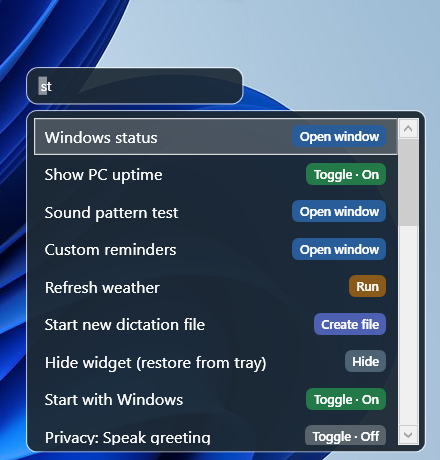
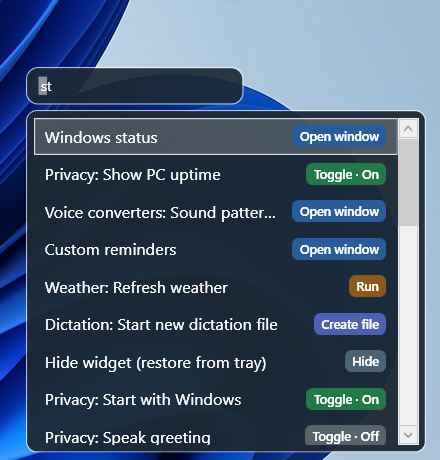
Group the right-click menu into submenus
Display and startup toggles (PC uptime, internet connection, Bluetooth and
headphones, Always on top, Start with Windows) move under Privacy; Refresh
weather moves under Weather; the dictation actions get a Dictation submenu
and the five voice tools a Voice converters submenu. Search labels now start
with the same submenu name, and the README and its screenshots follow.

diff --git a/src/Views/MainWindow.xaml.cs b/src/Views/MainWindow.xaml.cs
@@ -737,25 +737,25 @@ public partial class MainWindow : Window
         var actions = new List<WidgetSearchAction>
         {
             new("Windows status", "storage connection drive disk network wifi cpu processor memory ram process battery power display monitor gpu graphics uptime security antivirus firewall update dashboard", WidgetSearchActionKind.OpenWindow, ShowWindowsStatus),
-            new("Show PC uptime", "uptime boot started restart running time since", WidgetSearchActionKind.Toggle, ToggleShowUptime, () => _settings.ShowUptime),
-            new("Show internet connection", "network wifi wi-fi ethernet wired cellular mobile 5g 4g lte offline metered public private signal bars", WidgetSearchActionKind.Toggle, ToggleShowNetwork, () => _settings.ShowNetwork),
-            new("Show Bluetooth and headphones", "bluetooth headphones headset earbuds earphones audio devices connected", WidgetSearchActionKind.Toggle, ToggleShowDevices, () => _settings.ShowDevices),
+            new("Privacy: Show PC uptime", "uptime boot started restart running time since", WidgetSearchActionKind.Toggle, ToggleShowUptime, () => _settings.ShowUptime),
+            new("Privacy: Show internet connection", "network wifi wi-fi ethernet wired cellular mobile 5g 4g lte offline metered public private signal bars", WidgetSearchActionKind.Toggle, ToggleShowNetwork, () => _settings.ShowNetwork),
+            new("Privacy: Show Bluetooth and headphones", "bluetooth headphones headset earbuds earphones audio devices connected", WidgetSearchActionKind.Toggle, ToggleShowDevices, () => _settings.ShowDevices),
             new("File summary and search", "files folder documents dashboard find text word phrase grep size count docx", WidgetSearchActionKind.OpenWindow, ShowFileInsights),
             new("Scientific calculator", "math arithmetic trig sin cos log square root", WidgetSearchActionKind.OpenWindow, ShowScientificCalculator),
-            new("Sound pattern test", "voice signal microphone cloclo accessibility", WidgetSearchActionKind.OpenWindow, ShowSoundPatternTest),
-            new("Voice signals", "waveform david hoda microphone record compare accessibility", WidgetSearchActionKind.OpenWindow, ShowVoiceSignals),
-            new("Find it in David's words", "david match word microphone record recognise accessibility", WidgetSearchActionKind.OpenWindow, ShowDavidMatch),
-            new("Voice converter", "david convert my voice microphone record compare accessibility", WidgetSearchActionKind.OpenWindow, ShowVoiceConverter),
-            new("Letter signals", "letters formant table build word david compare signal", WidgetSearchActionKind.OpenWindow, ShowLetterSignals),
+            new("Voice converters: Sound pattern test", "voice signal microphone cloclo accessibility", WidgetSearchActionKind.OpenWindow, ShowSoundPatternTest),
+            new("Voice converters: Voice signals", "waveform david hoda microphone record compare accessibility", WidgetSearchActionKind.OpenWindow, ShowVoiceSignals),
+            new("Voice converters: Find it in David's words", "david match word microphone record recognise accessibility", WidgetSearchActionKind.OpenWindow, ShowDavidMatch),
+            new("Voice converters: Voice converter", "david convert my voice microphone record compare accessibility", WidgetSearchActionKind.OpenWindow, ShowVoiceConverter),
+            new("Voice converters: Letter signals", "letters formant table build word david compare signal", WidgetSearchActionKind.OpenWindow, ShowLetterSignals),
             new("Custom reminders", "reminder remainder schedule message", WidgetSearchActionKind.OpenWindow, OpenCustomReminders),
             new("Prayer times and azan", "salah fajr dhuhr asr maghrib isha adhan", WidgetSearchActionKind.OpenWindow, OpenPrayerTimes),
-            new("Open dictation folder", "dictation files recordings", WidgetSearchActionKind.OpenFolder, OpenDictationFolder),
+            new("Dictation: Open dictation folder", "dictation files recordings", WidgetSearchActionKind.OpenFolder, OpenDictationFolder),
             new("Set location", "city place weather gps", WidgetSearchActionKind.OpenWindow, OpenLocationDialog),
-            new("Refresh weather", "forecast update", WidgetSearchActionKind.Run, () => _ = RefreshWeatherAsync()),
-            new("Start new dictation file", "dictate speech recording", WidgetSearchActionKind.CreateFile, StartNewDictationFile),
+            new("Weather: Refresh weather", "forecast update", WidgetSearchActionKind.Run, () => _ = RefreshWeatherAsync()),
+            new("Dictation: Start new dictation file", "dictate speech recording", WidgetSearchActionKind.CreateFile, StartNewDictationFile),
             new("Hide widget (restore from tray)", "visibility tray hide", WidgetSearchActionKind.Hide, ToggleVisible),
-            new("Always on top", "toggle floating", WidgetSearchActionKind.Toggle, ToggleAlwaysOnTop, () => _settings.AlwaysOnTop),
-            new("Start with Windows", "startup login toggle", WidgetSearchActionKind.Toggle, ToggleStartWithWindows, () => StartupRegistration.IsEnabled()),
+            new("Privacy: Always on top", "toggle floating", WidgetSearchActionKind.Toggle, ToggleAlwaysOnTop, () => _settings.AlwaysOnTop),
+            new("Privacy: Start with Windows", "startup login toggle", WidgetSearchActionKind.Toggle, ToggleStartWithWindows, () => StartupRegistration.IsEnabled()),
             new("Privacy: Hide from screen sharing", "capture screenshots toggle", WidgetSearchActionKind.Toggle, ToggleHideFromScreenCapture, () => _settings.HideFromScreenCapture),
             new("Privacy: Show notification text", "notifications privacy toggle", WidgetSearchActionKind.Toggle, ToggleNotificationText, () => _settings.ShowNotificationText),
             new("Privacy: Speak greeting", "account name startup voice toggle", WidgetSearchActionKind.Toggle, ToggleSpeakGreeting, () => _settings.SpeakGreeting),
@@ -2361,22 +2361,22 @@ public partial class MainWindow : Window
         menu.Items.Add(Item("Custom reminders…", OpenCustomReminders));
         menu.Items.Add(Item("Prayer times and azan…", OpenPrayerTimes));
         menu.Items.Add(Item("Windows status…", ShowWindowsStatus));
-        menu.Items.Add(Item("Show PC uptime", ToggleShowUptime, isChecked: _settings.ShowUptime));
-        menu.Items.Add(Item("Show internet connection", ToggleShowNetwork, isChecked: _settings.ShowNetwork));
-        menu.Items.Add(Item("Show Bluetooth and headphones", ToggleShowDevices, isChecked: _settings.ShowDevices));
         menu.Items.Add(Item("File summary and search…", ShowFileInsights));
         menu.Items.Add(Item("Scientific calculator…", ShowScientificCalculator));
-        menu.Items.Add(Item("Sound pattern test…", ShowSoundPatternTest));
-        menu.Items.Add(Item("Voice signals…", ShowVoiceSignals));
-        menu.Items.Add(Item("Find it in David's words…", ShowDavidMatch));
-        menu.Items.Add(Item("Voice converter…", ShowVoiceConverter));
-        menu.Items.Add(Item("Letter signals…", ShowLetterSignals));
-        menu.Items.Add(Item("Refresh weather", () => _ = RefreshWeatherAsync()));
-        menu.Items.Add(Item("Start new dictation file", StartNewDictationFile));
-        menu.Items.Add(Item("Open dictation folder", OpenDictationFolder));
+        menu.Items.Add(SubMenu("Voice converters", new object[]
+        {
+            Item("Sound pattern test…", ShowSoundPatternTest),
+            Item("Voice signals…", ShowVoiceSignals),
+            Item("Find it in David's words…", ShowDavidMatch),
+            Item("Voice converter…", ShowVoiceConverter),
+            Item("Letter signals…", ShowLetterSignals),
+        }));
+        menu.Items.Add(SubMenu("Dictation", new object[]
+        {
+            Item("Start new dictation file", StartNewDictationFile),
+            Item("Open dictation folder", OpenDictationFolder),
+        }));
         menu.Items.Add(BuildPrivacyMenu());
-        menu.Items.Add(Item("Always on top", ToggleAlwaysOnTop, isChecked: _settings.AlwaysOnTop));
-        menu.Items.Add(Item("Start with Windows", ToggleStartWithWindows, isChecked: StartupRegistration.IsEnabled()));
         menu.Items.Add(new Separator());
         menu.Items.Add(Item("Exit", () => System.Windows.Application.Current.Shutdown()));
         return menu;
@@ -2415,7 +2415,9 @@ public partial class MainWindow : Window
     }
 
     private MenuItem BuildSkyMenu() =>
-        SubMenu("Weather", SkyOptions.Select(opt => Item(opt.Label, () => SetSky(opt.Value), isChecked: _settings.Sky == opt.Value)));
+        SubMenu("Weather", SkyOptions.Select(opt => (object)Item(opt.Label, () => SetSky(opt.Value), isChecked: _settings.Sky == opt.Value))
+            .Append(new Separator())
+            .Append(Item("Refresh weather", () => _ = RefreshWeatherAsync())));
 
     private static readonly (string Value, string Label)[] MotionOptions =
     {
@@ -2706,6 +2708,12 @@ public partial class MainWindow : Window
             Item("Speak greeting and account name on startup", ToggleSpeakGreeting, isChecked: _settings.SpeakGreeting),
             Item("Hold right-click to talk", TogglePushToTalk, isChecked: _settings.PushToTalkEnabled),
             Item("Voice commands in Arabic", ToggleVoiceCommandsInArabic, isChecked: _settings.VoiceCommandsInArabic),
+            new Separator(),
+            Item("Show PC uptime", ToggleShowUptime, isChecked: _settings.ShowUptime),
+            Item("Show internet connection", ToggleShowNetwork, isChecked: _settings.ShowNetwork),
+            Item("Show Bluetooth and headphones", ToggleShowDevices, isChecked: _settings.ShowDevices),
+            Item("Always on top", ToggleAlwaysOnTop, isChecked: _settings.AlwaysOnTop),
+            Item("Start with Windows", ToggleStartWithWindows, isChecked: StartupRegistration.IsEnabled()),
         });
 
     private void ToggleHideFromScreenCapture()

diff --git a/README.md b/README.md
@@ -155,7 +155,7 @@ two decimal places.
   e.g. "Wi-Fi, 3 of 4 bars, private network, not metered". It comes from
   Windows' own record of the connection, updates when Windows reports a
   change, and sends nothing; network names are never shown. Turn it off with
-  **Show internet connection** in the right-click menu or search.
+  **Show internet connection** under right-click → **Privacy**, or search.
 - **Bluetooth and headphones:** next to the internet icon, the Bluetooth rune
   shows while Bluetooth is on (bright with a device connected, faint with
   none; hidden while it's off), and a headphones glyph shows while sound
@@ -166,7 +166,7 @@ two decimal places.
   Windows' own radio, Bluetooth and sound-device events, and device names are
   never shown. Headphones plugged into a jack that Windows still calls
   "Speakers" can't be told apart. Turn them off with **Show Bluetooth and
-  headphones**.
+  headphones** under right-click → **Privacy**.
 - **Where they sit:** these icons go beside the battery percentage when they
   fit before the sun or moon, or on a row of their own in the top-left
   column otherwise. On a PC without a battery they come first in the column.
@@ -294,13 +294,18 @@ notifications until you choose **Notifications** from the icon bar or search.
 
 ### Search box
 
-<img src="docs/screenshots/features/search.png" alt="Search box with 'st' typed and suggestions such as Windows status, Show PC uptime, Custom reminders, Refresh weather and Start new dictation file, each with a coloured badge" width="400" align="right">
+<img src="docs/screenshots/features/search.png" alt="Search box with 'st' typed and suggestions such as Windows status, Privacy: Show PC uptime, Weather: Refresh weather and Dictation: Start new dictation file, each with a coloured badge" width="400" align="right">
 
 The search box below the widget finds right-click menu actions, including
 **Windows status**, **File summary and search**, **Scientific calculator**,
 **Custom reminders**, **Prayer times and azan**, **Open dictation folder**,
 and avatar, weather and privacy settings.
 
+- Actions that live in a submenu start with its name, as in the menu:
+  **Privacy: Show internet connection**, **Weather: Refresh weather**,
+  **Dictation: Open dictation folder**, **Voice converters: Letter
+  signals**. Typing just the action ("internet") or just the submenu
+  ("privacy") finds it.
 - Suggestions open below or beside the box; choose with the mouse or arrow
   keys and Enter. Esc closes them.
 - Coloured badges distinguish windows, menus, watchers, file actions and
@@ -315,16 +320,24 @@ and avatar, weather and privacy settings.
 
 ### Right-click menu
 
-<img src="docs/screenshots/features/menu.png" alt="CloClo's right-click menu: Set location, Avatar, Weather, Icons, Motion, Sleep after, Workout reminder, Custom reminders, Prayer times and azan, Windows status, toggles, tools, Privacy, Always on top, Start with Windows and Exit" width="300" align="right">
+<img src="docs/screenshots/features/menu.png" alt="CloClo's right-click menu: Set location, Avatar, Weather, Icons, Motion, Sleep after, Workout reminder, Custom reminders, Prayer times and azan, Windows status, File summary and search, Scientific calculator, Voice converters, Dictation, Privacy and Exit" width="300" align="right">
 
 **Right-click** (or double-click) for the menu: **Set location…**,
 **Avatar**, **Weather**, **Icons**, **Motion**, **Sleep after**, **Workout
 reminder**, **Custom reminders…**, **Prayer times and azan…**, **Windows
-status** (a dashboard of the PC's current state), **Show PC uptime**, **Show
-internet connection**, **Show Bluetooth and headphones**, **File summary and
-search…**, **Scientific calculator…**, the voice signal tools, **Refresh
-weather**, **Start new dictation file**, **Open dictation folder**,
-**Privacy**, **Always on top**, **Start with Windows** and **Exit**.
+status…** (a dashboard of the PC's current state), **File summary and
+search…**, **Scientific calculator…**, **Voice converters**, **Dictation**,
+**Privacy** and **Exit**. The submenus hold:
+
+- **Weather:** the sky to show (live or one you pick) and **Refresh weather**.
+- **Voice converters:** Sound pattern test, Voice signals, Find it in David's
+  words, Voice converter and Letter signals.
+- **Dictation:** **Start new dictation file** and **Open dictation folder**.
+- **Privacy:** Hide from screen sharing, Show notification text, Speak
+  greeting, Hold right-click to talk and Voice commands in Arabic, then the
+  display and startup settings: **Show PC uptime**, **Show internet
+  connection**, **Show Bluetooth and headphones**, **Always on top** and
+  **Start with Windows**.
 
 With **Hold right-click to talk** on, holding the button for a second talks
 to CloClo instead of opening the menu.
@@ -448,8 +461,9 @@ a bounded local arithmetic parser, not a scripting engine or network service.
 
 <img src="docs/screenshots/features/voice-converter.png" alt="Voice converter window comparing the synthesized David voice saying 'cloclo' and 'youtube' as waveforms, with Record me and pitch controls" width="560">
 
-The search box and right-click menu open Sound pattern test, Voice signals,
-Find it in David's words, Voice converter, and Letter signals. These local
+The search box and right-click → **Voice converters** open Sound pattern
+test, Voice signals, Find it in David's words, Voice converter, and Letter
+signals. These local
 experiments compare microphone samples with synthesized Windows voices.
 Recordings stay in memory and stop when their windows close. Sound pattern
 test can save measured sound pieces to
@@ -794,7 +808,7 @@ folder you can write to, so the check is weaker; the script says so.)
 | "The .NET SDK wasn't found" | Install the .NET 10 SDK from dotnet.microsoft.com (it installs under Program Files) |
 | CloClo says it "won't start while these files are next to it" or "found native files it can't verify" | Something placed files beside or into CloClo — delete the files it names, consider a malware scan, and reinstall |
 | CloClo "won't run with a .NET profiler attached" | Remove the listed environment variables (System Properties → Environment Variables), sign out and back in |
-| CloClo doesn't start at sign-in | Check **Settings → Apps → Startup** has CloClo switched on; otherwise right-click it → **Start with Windows** off and on again |
+| CloClo doesn't start at sign-in | Check **Settings → Apps → Startup** has CloClo switched on; otherwise right-click it → **Privacy** → **Start with Windows** off and on again |
 | "Source files … changed while building" | Something edited the project during the build — run the install again, and use `scripts/Check-Source.cmd` if you didn't expect changes |
 | `scripts/Check-Source.cmd`: "isn't installed with a source record yet" | The installed copy predates source records — run `scripts/Install-CloClo.cmd` once |
 | `scripts/Check-Source.cmd` lists changes you didn't make | Don't build or install; look at the listed files first (`git diff` shows what changed) |
